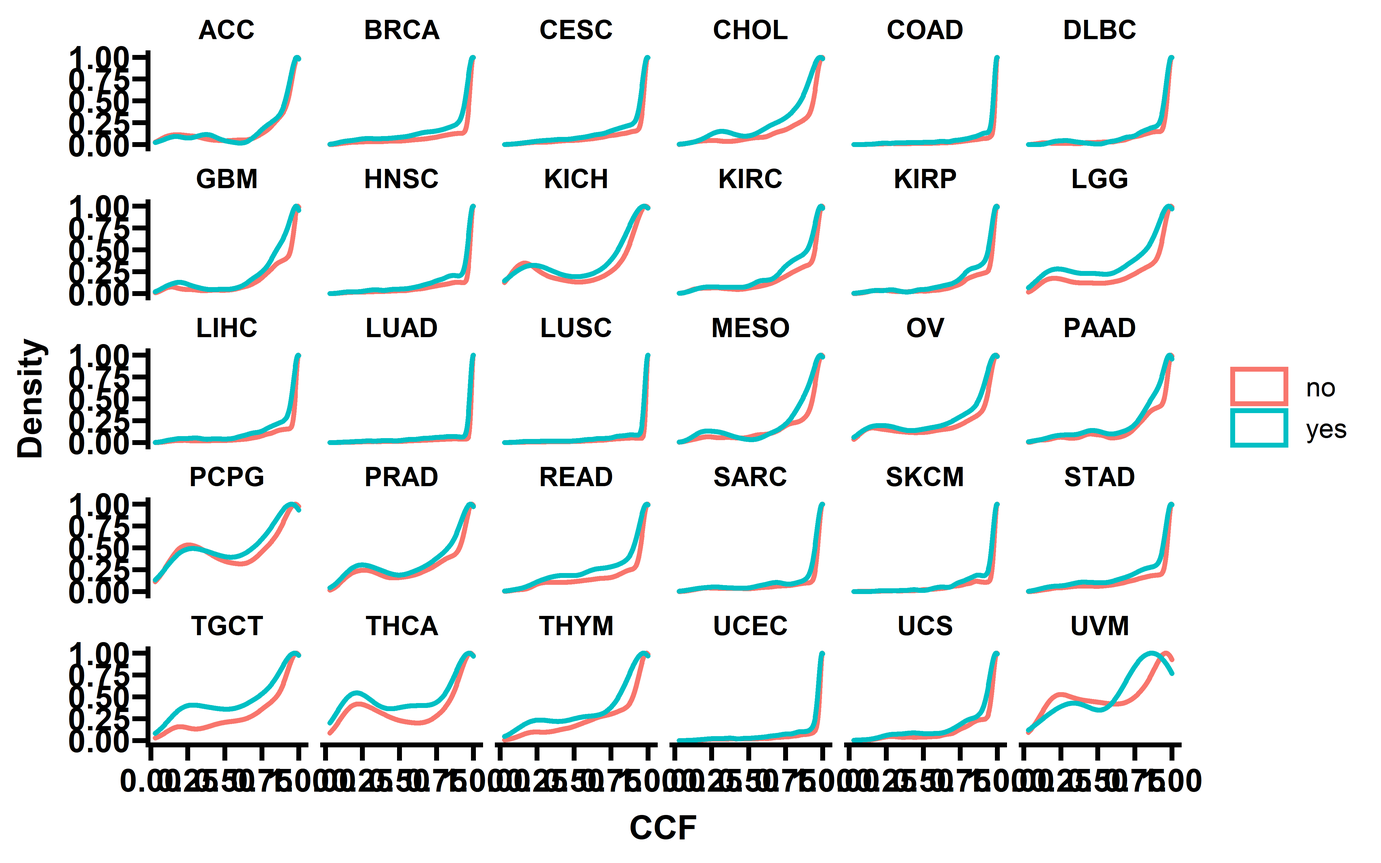
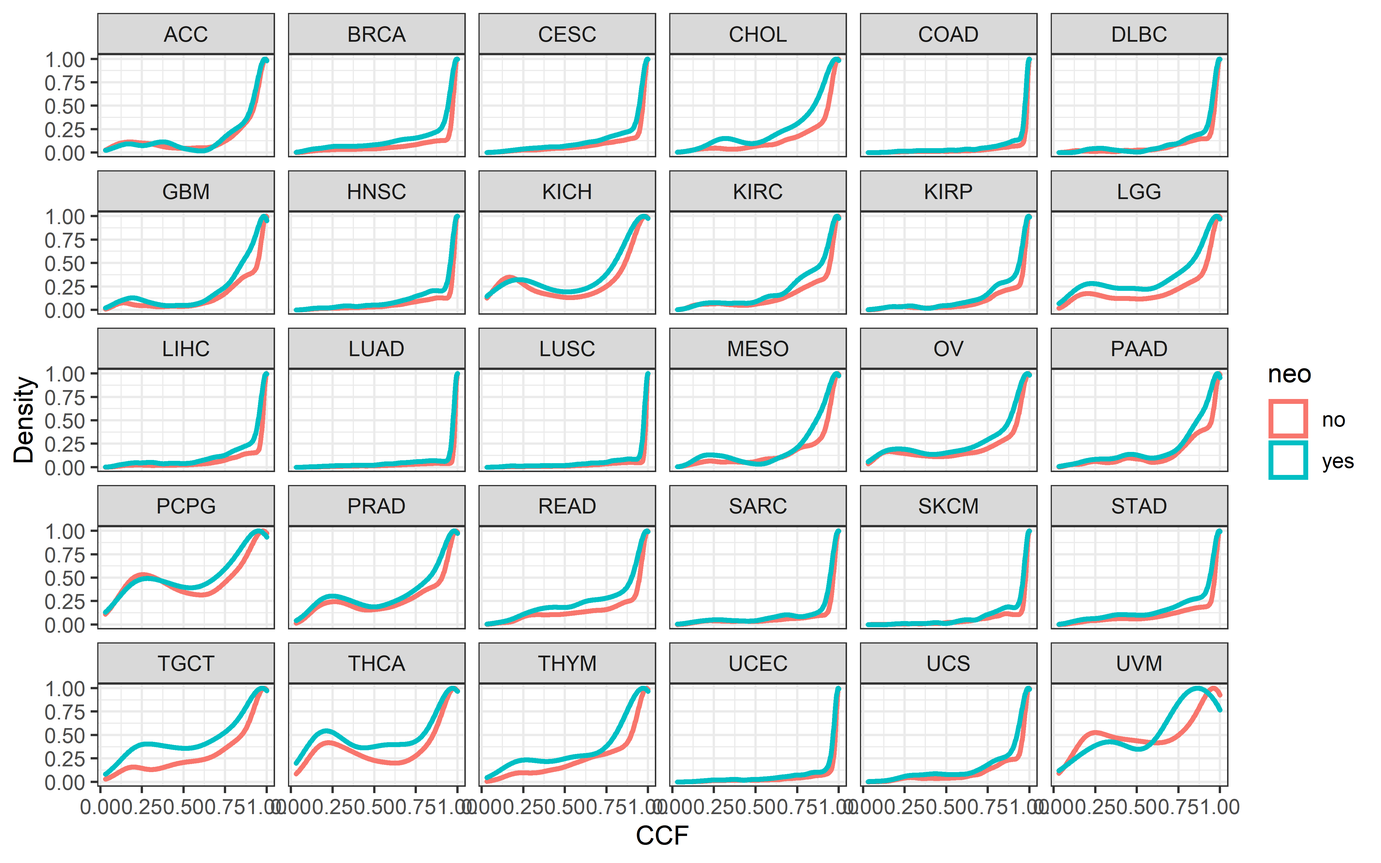
update website

diff --git a/docs/index.html b/docs/index.html
@@ -299,8 +299,8 @@
 <span id="cb3-2"><a href="#cb3-2" aria-hidden="true" tabindex="-1"></a>DT<span class="sc">::</span><span class="fu">datatable</span>(<span class="fu">head</span>(pancancer_mutation),</span>
 <span id="cb3-3"><a href="#cb3-3" aria-hidden="true" tabindex="-1"></a>  <span class="at">options =</span> <span class="fu">list</span>(<span class="at">scrollX =</span> <span class="cn">TRUE</span>, <span class="at">keys =</span> <span class="cn">TRUE</span>), <span class="at">rownames =</span> <span class="cn">FALSE</span></span>
 <span id="cb3-4"><a href="#cb3-4" aria-hidden="true" tabindex="-1"></a>)</span></code></pre></div>
-<div id="htmlwidget-fecff237e4eaf5f5f6d3" style="width:100%;height:auto;" class="datatables html-widget"></div>
-<script type="application/json" data-for="htmlwidget-fecff237e4eaf5f5f6d3">{"x":{"filter":"none","vertical":false,"data":[["TCGA-P6-A5OH-01A","TCGA-P6-A5OH-01A","TCGA-P6-A5OH-01A","TCGA-P6-A5OH-01A","TCGA-P6-A5OH-01A","TCGA-P6-A5OH-01A"],["WASF2","MACF1","NFIA","CADM3","DUSP27","RGSL1"],["chr1","chr1","chr1","chr1","chr1","chr1"],[27410171,39455094,61088434,159200836,167126702,182556049],[27410171,39455094,61088434,159200836,167126702,182556049],["G","T","C","G","G","G"],["A","A","T","A","C","C"],["p.A287V","p.H6923Q","p.L105F","p.D371N","p.G524A","p.E1075Q"],["missense_variant","missense_variant","missense_variant","missense_variant","missense_variant","missense_variant"],["PASS","PASS","PASS","PASS","PASS","PASS"],[0.25531914893617,0.0720720720720721,0.152671755725191,0.299479166666667,0.0555555555555556,0.2734375]],"container":"<table class=\"display\">\n  <thead>\n    <tr>\n      <th>Sample_ID<\/th>\n      <th>gene<\/th>\n      <th>chrom<\/th>\n      <th>start<\/th>\n      <th>end<\/th>\n      <th>ref<\/th>\n      <th>alt<\/th>\n      <th>Amino_Acid_Change<\/th>\n      <th>effect<\/th>\n      <th>filter<\/th>\n      <th>dna_vaf<\/th>\n    <\/tr>\n  <\/thead>\n<\/table>","options":{"scrollX":true,"keys":true,"columnDefs":[{"className":"dt-right","targets":[3,4,10]}],"order":[],"autoWidth":false,"orderClasses":false}},"evals":[],"jsHooks":[]}</script>
+<div id="htmlwidget-ea3678514e6542761ac6" style="width:100%;height:auto;" class="datatables html-widget"></div>
+<script type="application/json" data-for="htmlwidget-ea3678514e6542761ac6">{"x":{"filter":"none","vertical":false,"data":[["TCGA-P6-A5OH-01A","TCGA-P6-A5OH-01A","TCGA-P6-A5OH-01A","TCGA-P6-A5OH-01A","TCGA-P6-A5OH-01A","TCGA-P6-A5OH-01A"],["WASF2","MACF1","NFIA","CADM3","DUSP27","RGSL1"],["chr1","chr1","chr1","chr1","chr1","chr1"],[27410171,39455094,61088434,159200836,167126702,182556049],[27410171,39455094,61088434,159200836,167126702,182556049],["G","T","C","G","G","G"],["A","A","T","A","C","C"],["p.A287V","p.H6923Q","p.L105F","p.D371N","p.G524A","p.E1075Q"],["missense_variant","missense_variant","missense_variant","missense_variant","missense_variant","missense_variant"],["PASS","PASS","PASS","PASS","PASS","PASS"],[0.25531914893617,0.0720720720720721,0.152671755725191,0.299479166666667,0.0555555555555556,0.2734375]],"container":"<table class=\"display\">\n  <thead>\n    <tr>\n      <th>Sample_ID<\/th>\n      <th>gene<\/th>\n      <th>chrom<\/th>\n      <th>start<\/th>\n      <th>end<\/th>\n      <th>ref<\/th>\n      <th>alt<\/th>\n      <th>Amino_Acid_Change<\/th>\n      <th>effect<\/th>\n      <th>filter<\/th>\n      <th>dna_vaf<\/th>\n    <\/tr>\n  <\/thead>\n<\/table>","options":{"scrollX":true,"keys":true,"columnDefs":[{"className":"dt-right","targets":[3,4,10]}],"order":[],"autoWidth":false,"orderClasses":false}},"evals":[],"jsHooks":[]}</script>
 <p>To predict neoantigen, mutation files were first transformed into single sample VCF format by maf2vcf tools (This Code can be found in <code>code/shell/TCGA_neoantigen</code> folder).</p>
 <p>ABSOLUTE-annotated MAF file which contains cancer cell fraction (CCF) information of mutations was downloaded from GDC PanCanAtlas publications (<a href="https://gdc.cancer.gov/node/905/">TCGA_consolidated.abs_mafs_truncated.fixed.txt.gz</a>), and then we used liftover function from R package “rtracklayer” to convert the this hg37 genome coordinates file to hg38 coordinates:</p>
 <div class="sourceCode" id="cb4"><pre class="sourceCode r"><code class="sourceCode r"><span id="cb4-1"><a href="#cb4-1" aria-hidden="true" tabindex="-1"></a>absolute_maf <span class="ot">&lt;-</span> data.table<span class="sc">::</span><span class="fu">fread</span>(<span class="st">&quot;~/useful_data/TCGA_consolidated.abs_mafs_truncated.fixed.txt&quot;</span>)</span>
@@ -394,8 +394,8 @@
 <span id="cb9-2"><a href="#cb9-2" aria-hidden="true" tabindex="-1"></a>DT<span class="sc">::</span><span class="fu">datatable</span>(<span class="fu">head</span>(pancancer_immune),</span>
 <span id="cb9-3"><a href="#cb9-3" aria-hidden="true" tabindex="-1"></a>  <span class="at">options =</span> <span class="fu">list</span>(<span class="at">scrollX =</span> <span class="cn">TRUE</span>, <span class="at">keys =</span> <span class="cn">TRUE</span>), <span class="at">rownames =</span> <span class="cn">FALSE</span></span>
 <span id="cb9-4"><a href="#cb9-4" aria-hidden="true" tabindex="-1"></a>)</span></code></pre></div>
-<div id="htmlwidget-8572b52cb435a67b3689" style="width:100%;height:auto;" class="datatables html-widget"></div>
-<script type="application/json" data-for="htmlwidget-8572b52cb435a67b3689">{"x":{"filter":"none","vertical":false,"data":[["TCGA-OR-A5J1-01A","TCGA-OR-A5J2-01A","TCGA-OR-A5J3-01A","TCGA-OR-A5J5-01A","TCGA-OR-A5J6-01A","TCGA-OR-A5J7-01A"],[0,0,0.089,0.014,0,0.042],[0.115,0.114,0.087,0.218,0,0.069],[0.436,0.427,0.192,0.406,0.537,0.218],[0.035,0.08,0,0.003,0.105,0.02],[0.04,0.104,0.033,0.079,0.123,0.174],[0.048,0.025,0,0,0.11,0.013],[0.065,0.245,0,0,0.156,0.003],[0.158,0.152,0.069,0.004,0.148,0.025],[0.334,0.219,0,0.082,0.325,0],[0.057,0.044,0.253,0.114,0.203,0.112],[0.075,0.115,0,0.055,0.03,0.043],[0,0.087,0.061,0,0,0.041],[0.027,0.012,0,0,0.031,0],[0,0.143,0.07,0.105,0,0.043],[0.278,0.163,0.045,0.173,0.17,0.051],[0.15,0.207,0.149,0.088,0.224,0.13],[0.026,0.068,0.067,0.114,0.038,0.14],[0.104,0.095,0.076,0.148,0.172,0.086],[0.182,0.102,0.085,0.085,0.275,0.112],[0.162,0.003,0.146,0.254,0.377,0.179],[0.115,0.106,0.162,0.122,0.115,0.157],[0.089,0.07,0.13,0.151,0.09,0.06],[0.102,0.084,0.123,0.087,0.058,0.094],[0.201,0.211,0.046,0.156,0.206,0.048],[0.606,0.508,0.496,0.613,0.851,0.549]],"container":"<table class=\"display\">\n  <thead>\n    <tr>\n      <th>sample<\/th>\n      <th>CD4_naive<\/th>\n      <th>CD8_naive<\/th>\n      <th>Tc<\/th>\n      <th>Tex<\/th>\n      <th>Tr1<\/th>\n      <th>nTreg<\/th>\n      <th>iTreg<\/th>\n      <th>Th1<\/th>\n      <th>Th2<\/th>\n      <th>Th17<\/th>\n      <th>Tfh<\/th>\n      <th>Tcm<\/th>\n      <th>Tem<\/th>\n      <th>NKT<\/th>\n      <th>MAIT<\/th>\n      <th>DC<\/th>\n      <th>B_cell<\/th>\n      <th>Monocyte<\/th>\n      <th>Macrophage<\/th>\n      <th>NK<\/th>\n      <th>Neutrophil<\/th>\n      <th>Tgd<\/th>\n      <th>CD4_T<\/th>\n      <th>CD8_T<\/th>\n      <th>InfiltrationScore<\/th>\n    <\/tr>\n  <\/thead>\n<\/table>","options":{"scrollX":true,"keys":true,"columnDefs":[{"className":"dt-right","targets":[1,2,3,4,5,6,7,8,9,10,11,12,13,14,15,16,17,18,19,20,21,22,23,24,25]}],"order":[],"autoWidth":false,"orderClasses":false}},"evals":[],"jsHooks":[]}</script>
+<div id="htmlwidget-138fb5acbf17a69eca08" style="width:100%;height:auto;" class="datatables html-widget"></div>
+<script type="application/json" data-for="htmlwidget-138fb5acbf17a69eca08">{"x":{"filter":"none","vertical":false,"data":[["TCGA-OR-A5J1-01A","TCGA-OR-A5J2-01A","TCGA-OR-A5J3-01A","TCGA-OR-A5J5-01A","TCGA-OR-A5J6-01A","TCGA-OR-A5J7-01A"],[0,0,0.089,0.014,0,0.042],[0.115,0.114,0.087,0.218,0,0.069],[0.436,0.427,0.192,0.406,0.537,0.218],[0.035,0.08,0,0.003,0.105,0.02],[0.04,0.104,0.033,0.079,0.123,0.174],[0.048,0.025,0,0,0.11,0.013],[0.065,0.245,0,0,0.156,0.003],[0.158,0.152,0.069,0.004,0.148,0.025],[0.334,0.219,0,0.082,0.325,0],[0.057,0.044,0.253,0.114,0.203,0.112],[0.075,0.115,0,0.055,0.03,0.043],[0,0.087,0.061,0,0,0.041],[0.027,0.012,0,0,0.031,0],[0,0.143,0.07,0.105,0,0.043],[0.278,0.163,0.045,0.173,0.17,0.051],[0.15,0.207,0.149,0.088,0.224,0.13],[0.026,0.068,0.067,0.114,0.038,0.14],[0.104,0.095,0.076,0.148,0.172,0.086],[0.182,0.102,0.085,0.085,0.275,0.112],[0.162,0.003,0.146,0.254,0.377,0.179],[0.115,0.106,0.162,0.122,0.115,0.157],[0.089,0.07,0.13,0.151,0.09,0.06],[0.102,0.084,0.123,0.087,0.058,0.094],[0.201,0.211,0.046,0.156,0.206,0.048],[0.606,0.508,0.496,0.613,0.851,0.549]],"container":"<table class=\"display\">\n  <thead>\n    <tr>\n      <th>sample<\/th>\n      <th>CD4_naive<\/th>\n      <th>CD8_naive<\/th>\n      <th>Tc<\/th>\n      <th>Tex<\/th>\n      <th>Tr1<\/th>\n      <th>nTreg<\/th>\n      <th>iTreg<\/th>\n      <th>Th1<\/th>\n      <th>Th2<\/th>\n      <th>Th17<\/th>\n      <th>Tfh<\/th>\n      <th>Tcm<\/th>\n      <th>Tem<\/th>\n      <th>NKT<\/th>\n      <th>MAIT<\/th>\n      <th>DC<\/th>\n      <th>B_cell<\/th>\n      <th>Monocyte<\/th>\n      <th>Macrophage<\/th>\n      <th>NK<\/th>\n      <th>Neutrophil<\/th>\n      <th>Tgd<\/th>\n      <th>CD4_T<\/th>\n      <th>CD8_T<\/th>\n      <th>InfiltrationScore<\/th>\n    <\/tr>\n  <\/thead>\n<\/table>","options":{"scrollX":true,"keys":true,"columnDefs":[{"className":"dt-right","targets":[1,2,3,4,5,6,7,8,9,10,11,12,13,14,15,16,17,18,19,20,21,22,23,24,25]}],"order":[],"autoWidth":false,"orderClasses":false}},"evals":[],"jsHooks":[]}</script>
 <p>Other Immune cell infiltration data including CIBERSORT (abs mode), Quantiseq were downloaded from the <a href="http://timer.comp-genomics.org/">TIMER2.0</a> study.</p>
 </div>
 </div>
@@ -2009,7 +2009,7 @@
 <span id="cb54-12"><a href="#cb54-12" aria-hidden="true" tabindex="-1"></a><span class="co">#&gt;   FLG</span></span>
 <span id="cb54-13"><a href="#cb54-13" aria-hidden="true" tabindex="-1"></a><span class="co">#&gt; -Processing clinical data</span></span>
 <span id="cb54-14"><a href="#cb54-14" aria-hidden="true" tabindex="-1"></a><span class="co">#&gt; --Missing clinical data</span></span>
-<span id="cb54-15"><a href="#cb54-15" aria-hidden="true" tabindex="-1"></a><span class="co">#&gt; -Finished in 3.880s elapsed (3.750s cpu)</span></span>
+<span id="cb54-15"><a href="#cb54-15" aria-hidden="true" tabindex="-1"></a><span class="co">#&gt; -Finished in 3.750s elapsed (3.660s cpu)</span></span>
 <span id="cb54-16"><a href="#cb54-16" aria-hidden="true" tabindex="-1"></a><span class="fu">oncoplot</span>(<span class="at">maf =</span> willy_maf,<span class="at">top=</span><span class="dv">10</span>,<span class="at">draw_titv =</span> <span class="cn">TRUE</span>)</span></code></pre></div>
 <p><img src="report_main_files/figure-html/unnamed-chunk-32-2.png" width="2400" /></p>
 <div class="sourceCode" id="cb55"><pre class="sourceCode r"><code class="sourceCode r"><span id="cb55-1"><a href="#cb55-1" aria-hidden="true" tabindex="-1"></a></span>
@@ -2026,7 +2026,7 @@
 <span id="cb55-12"><a href="#cb55-12" aria-hidden="true" tabindex="-1"></a><span class="co">#&gt;   OBSCN</span></span>
 <span id="cb55-13"><a href="#cb55-13" aria-hidden="true" tabindex="-1"></a><span class="co">#&gt; -Processing clinical data</span></span>
 <span id="cb55-14"><a href="#cb55-14" aria-hidden="true" tabindex="-1"></a><span class="co">#&gt; --Missing clinical data</span></span>
-<span id="cb55-15"><a href="#cb55-15" aria-hidden="true" tabindex="-1"></a><span class="co">#&gt; -Finished in 1.380s elapsed (1.220s cpu)</span></span>
+<span id="cb55-15"><a href="#cb55-15" aria-hidden="true" tabindex="-1"></a><span class="co">#&gt; -Finished in 1.360s elapsed (1.260s cpu)</span></span>
 <span id="cb55-16"><a href="#cb55-16" aria-hidden="true" tabindex="-1"></a><span class="fu">oncoplot</span>(<span class="at">maf =</span> nadeem_maf,<span class="at">top=</span><span class="dv">10</span>,<span class="at">draw_titv =</span> <span class="cn">TRUE</span>)</span></code></pre></div>
 <p><img src="report_main_files/figure-html/unnamed-chunk-32-3.png" width="2400" /></p>
 </div>
@@ -2223,11 +2223,10 @@
 <span id="cb63-11"><a href="#cb63-11" aria-hidden="true" tabindex="-1"></a></span>
 <span id="cb63-12"><a href="#cb63-12" aria-hidden="true" tabindex="-1"></a><span class="fu">ggplot</span>(<span class="at">data =</span> neo_missense,<span class="fu">aes</span>(<span class="at">x=</span>ccf,..scaled..,<span class="at">color=</span>neo))<span class="sc">+</span></span>
 <span id="cb63-13"><a href="#cb63-13" aria-hidden="true" tabindex="-1"></a>  <span class="fu">geom_density</span>(<span class="at">size=</span><span class="dv">1</span>)<span class="sc">+</span></span>
-<span id="cb63-14"><a href="#cb63-14" aria-hidden="true" tabindex="-1"></a>  <span class="fu">theme_prism</span>()<span class="sc">+</span></span>
+<span id="cb63-14"><a href="#cb63-14" aria-hidden="true" tabindex="-1"></a>  <span class="fu">theme_bw</span>()<span class="sc">+</span></span>
 <span id="cb63-15"><a href="#cb63-15" aria-hidden="true" tabindex="-1"></a>  <span class="fu">labs</span>(<span class="at">y=</span><span class="st">&quot;Density&quot;</span>,<span class="at">x=</span><span class="st">&quot;CCF&quot;</span>)<span class="sc">+</span></span>
 <span id="cb63-16"><a href="#cb63-16" aria-hidden="true" tabindex="-1"></a>  <span class="fu">facet_wrap</span>(. <span class="sc">~</span> cancer)</span></code></pre></div>
-<div class="sourceCode" id="cb64"><pre class="sourceCode r"><code class="sourceCode r"><span id="cb64-1"><a href="#cb64-1" aria-hidden="true" tabindex="-1"></a>knitr<span class="sc">::</span><span class="fu">include_graphics</span>(<span class="st">&quot;s3.png&quot;</span>)</span></code></pre></div>
-<p><img src="s3.png" width="508" /></p>
+<p><img src="report_main_files/figure-html/unnamed-chunk-36-1.png" width="2400" /></p>
 <p>It is apparent that in many cancer types there are clear shift of CCF curves of neoantigenic mutations compared with non-neoantigenic mutations, and this difference highlight the immunoediting elimination signal quantified in this study.</p>
 </div>
 </div>

diff --git a/report/report_main.html b/report/report_main.html
@@ -299,8 +299,8 @@
 <span id="cb3-2"><a href="#cb3-2" aria-hidden="true" tabindex="-1"></a>DT<span class="sc">::</span><span class="fu">datatable</span>(<span class="fu">head</span>(pancancer_mutation),</span>
 <span id="cb3-3"><a href="#cb3-3" aria-hidden="true" tabindex="-1"></a>  <span class="at">options =</span> <span class="fu">list</span>(<span class="at">scrollX =</span> <span class="cn">TRUE</span>, <span class="at">keys =</span> <span class="cn">TRUE</span>), <span class="at">rownames =</span> <span class="cn">FALSE</span></span>
 <span id="cb3-4"><a href="#cb3-4" aria-hidden="true" tabindex="-1"></a>)</span></code></pre></div>
-<div id="htmlwidget-fecff237e4eaf5f5f6d3" style="width:100%;height:auto;" class="datatables html-widget"></div>
-<script type="application/json" data-for="htmlwidget-fecff237e4eaf5f5f6d3">{"x":{"filter":"none","vertical":false,"data":[["TCGA-P6-A5OH-01A","TCGA-P6-A5OH-01A","TCGA-P6-A5OH-01A","TCGA-P6-A5OH-01A","TCGA-P6-A5OH-01A","TCGA-P6-A5OH-01A"],["WASF2","MACF1","NFIA","CADM3","DUSP27","RGSL1"],["chr1","chr1","chr1","chr1","chr1","chr1"],[27410171,39455094,61088434,159200836,167126702,182556049],[27410171,39455094,61088434,159200836,167126702,182556049],["G","T","C","G","G","G"],["A","A","T","A","C","C"],["p.A287V","p.H6923Q","p.L105F","p.D371N","p.G524A","p.E1075Q"],["missense_variant","missense_variant","missense_variant","missense_variant","missense_variant","missense_variant"],["PASS","PASS","PASS","PASS","PASS","PASS"],[0.25531914893617,0.0720720720720721,0.152671755725191,0.299479166666667,0.0555555555555556,0.2734375]],"container":"<table class=\"display\">\n  <thead>\n    <tr>\n      <th>Sample_ID<\/th>\n      <th>gene<\/th>\n      <th>chrom<\/th>\n      <th>start<\/th>\n      <th>end<\/th>\n      <th>ref<\/th>\n      <th>alt<\/th>\n      <th>Amino_Acid_Change<\/th>\n      <th>effect<\/th>\n      <th>filter<\/th>\n      <th>dna_vaf<\/th>\n    <\/tr>\n  <\/thead>\n<\/table>","options":{"scrollX":true,"keys":true,"columnDefs":[{"className":"dt-right","targets":[3,4,10]}],"order":[],"autoWidth":false,"orderClasses":false}},"evals":[],"jsHooks":[]}</script>
+<div id="htmlwidget-ea3678514e6542761ac6" style="width:100%;height:auto;" class="datatables html-widget"></div>
+<script type="application/json" data-for="htmlwidget-ea3678514e6542761ac6">{"x":{"filter":"none","vertical":false,"data":[["TCGA-P6-A5OH-01A","TCGA-P6-A5OH-01A","TCGA-P6-A5OH-01A","TCGA-P6-A5OH-01A","TCGA-P6-A5OH-01A","TCGA-P6-A5OH-01A"],["WASF2","MACF1","NFIA","CADM3","DUSP27","RGSL1"],["chr1","chr1","chr1","chr1","chr1","chr1"],[27410171,39455094,61088434,159200836,167126702,182556049],[27410171,39455094,61088434,159200836,167126702,182556049],["G","T","C","G","G","G"],["A","A","T","A","C","C"],["p.A287V","p.H6923Q","p.L105F","p.D371N","p.G524A","p.E1075Q"],["missense_variant","missense_variant","missense_variant","missense_variant","missense_variant","missense_variant"],["PASS","PASS","PASS","PASS","PASS","PASS"],[0.25531914893617,0.0720720720720721,0.152671755725191,0.299479166666667,0.0555555555555556,0.2734375]],"container":"<table class=\"display\">\n  <thead>\n    <tr>\n      <th>Sample_ID<\/th>\n      <th>gene<\/th>\n      <th>chrom<\/th>\n      <th>start<\/th>\n      <th>end<\/th>\n      <th>ref<\/th>\n      <th>alt<\/th>\n      <th>Amino_Acid_Change<\/th>\n      <th>effect<\/th>\n      <th>filter<\/th>\n      <th>dna_vaf<\/th>\n    <\/tr>\n  <\/thead>\n<\/table>","options":{"scrollX":true,"keys":true,"columnDefs":[{"className":"dt-right","targets":[3,4,10]}],"order":[],"autoWidth":false,"orderClasses":false}},"evals":[],"jsHooks":[]}</script>
 <p>To predict neoantigen, mutation files were first transformed into single sample VCF format by maf2vcf tools (This Code can be found in <code>code/shell/TCGA_neoantigen</code> folder).</p>
 <p>ABSOLUTE-annotated MAF file which contains cancer cell fraction (CCF) information of mutations was downloaded from GDC PanCanAtlas publications (<a href="https://gdc.cancer.gov/node/905/">TCGA_consolidated.abs_mafs_truncated.fixed.txt.gz</a>), and then we used liftover function from R package “rtracklayer” to convert the this hg37 genome coordinates file to hg38 coordinates:</p>
 <div class="sourceCode" id="cb4"><pre class="sourceCode r"><code class="sourceCode r"><span id="cb4-1"><a href="#cb4-1" aria-hidden="true" tabindex="-1"></a>absolute_maf <span class="ot">&lt;-</span> data.table<span class="sc">::</span><span class="fu">fread</span>(<span class="st">&quot;~/useful_data/TCGA_consolidated.abs_mafs_truncated.fixed.txt&quot;</span>)</span>
@@ -394,8 +394,8 @@
 <span id="cb9-2"><a href="#cb9-2" aria-hidden="true" tabindex="-1"></a>DT<span class="sc">::</span><span class="fu">datatable</span>(<span class="fu">head</span>(pancancer_immune),</span>
 <span id="cb9-3"><a href="#cb9-3" aria-hidden="true" tabindex="-1"></a>  <span class="at">options =</span> <span class="fu">list</span>(<span class="at">scrollX =</span> <span class="cn">TRUE</span>, <span class="at">keys =</span> <span class="cn">TRUE</span>), <span class="at">rownames =</span> <span class="cn">FALSE</span></span>
 <span id="cb9-4"><a href="#cb9-4" aria-hidden="true" tabindex="-1"></a>)</span></code></pre></div>
-<div id="htmlwidget-8572b52cb435a67b3689" style="width:100%;height:auto;" class="datatables html-widget"></div>
-<script type="application/json" data-for="htmlwidget-8572b52cb435a67b3689">{"x":{"filter":"none","vertical":false,"data":[["TCGA-OR-A5J1-01A","TCGA-OR-A5J2-01A","TCGA-OR-A5J3-01A","TCGA-OR-A5J5-01A","TCGA-OR-A5J6-01A","TCGA-OR-A5J7-01A"],[0,0,0.089,0.014,0,0.042],[0.115,0.114,0.087,0.218,0,0.069],[0.436,0.427,0.192,0.406,0.537,0.218],[0.035,0.08,0,0.003,0.105,0.02],[0.04,0.104,0.033,0.079,0.123,0.174],[0.048,0.025,0,0,0.11,0.013],[0.065,0.245,0,0,0.156,0.003],[0.158,0.152,0.069,0.004,0.148,0.025],[0.334,0.219,0,0.082,0.325,0],[0.057,0.044,0.253,0.114,0.203,0.112],[0.075,0.115,0,0.055,0.03,0.043],[0,0.087,0.061,0,0,0.041],[0.027,0.012,0,0,0.031,0],[0,0.143,0.07,0.105,0,0.043],[0.278,0.163,0.045,0.173,0.17,0.051],[0.15,0.207,0.149,0.088,0.224,0.13],[0.026,0.068,0.067,0.114,0.038,0.14],[0.104,0.095,0.076,0.148,0.172,0.086],[0.182,0.102,0.085,0.085,0.275,0.112],[0.162,0.003,0.146,0.254,0.377,0.179],[0.115,0.106,0.162,0.122,0.115,0.157],[0.089,0.07,0.13,0.151,0.09,0.06],[0.102,0.084,0.123,0.087,0.058,0.094],[0.201,0.211,0.046,0.156,0.206,0.048],[0.606,0.508,0.496,0.613,0.851,0.549]],"container":"<table class=\"display\">\n  <thead>\n    <tr>\n      <th>sample<\/th>\n      <th>CD4_naive<\/th>\n      <th>CD8_naive<\/th>\n      <th>Tc<\/th>\n      <th>Tex<\/th>\n      <th>Tr1<\/th>\n      <th>nTreg<\/th>\n      <th>iTreg<\/th>\n      <th>Th1<\/th>\n      <th>Th2<\/th>\n      <th>Th17<\/th>\n      <th>Tfh<\/th>\n      <th>Tcm<\/th>\n      <th>Tem<\/th>\n      <th>NKT<\/th>\n      <th>MAIT<\/th>\n      <th>DC<\/th>\n      <th>B_cell<\/th>\n      <th>Monocyte<\/th>\n      <th>Macrophage<\/th>\n      <th>NK<\/th>\n      <th>Neutrophil<\/th>\n      <th>Tgd<\/th>\n      <th>CD4_T<\/th>\n      <th>CD8_T<\/th>\n      <th>InfiltrationScore<\/th>\n    <\/tr>\n  <\/thead>\n<\/table>","options":{"scrollX":true,"keys":true,"columnDefs":[{"className":"dt-right","targets":[1,2,3,4,5,6,7,8,9,10,11,12,13,14,15,16,17,18,19,20,21,22,23,24,25]}],"order":[],"autoWidth":false,"orderClasses":false}},"evals":[],"jsHooks":[]}</script>
+<div id="htmlwidget-138fb5acbf17a69eca08" style="width:100%;height:auto;" class="datatables html-widget"></div>
+<script type="application/json" data-for="htmlwidget-138fb5acbf17a69eca08">{"x":{"filter":"none","vertical":false,"data":[["TCGA-OR-A5J1-01A","TCGA-OR-A5J2-01A","TCGA-OR-A5J3-01A","TCGA-OR-A5J5-01A","TCGA-OR-A5J6-01A","TCGA-OR-A5J7-01A"],[0,0,0.089,0.014,0,0.042],[0.115,0.114,0.087,0.218,0,0.069],[0.436,0.427,0.192,0.406,0.537,0.218],[0.035,0.08,0,0.003,0.105,0.02],[0.04,0.104,0.033,0.079,0.123,0.174],[0.048,0.025,0,0,0.11,0.013],[0.065,0.245,0,0,0.156,0.003],[0.158,0.152,0.069,0.004,0.148,0.025],[0.334,0.219,0,0.082,0.325,0],[0.057,0.044,0.253,0.114,0.203,0.112],[0.075,0.115,0,0.055,0.03,0.043],[0,0.087,0.061,0,0,0.041],[0.027,0.012,0,0,0.031,0],[0,0.143,0.07,0.105,0,0.043],[0.278,0.163,0.045,0.173,0.17,0.051],[0.15,0.207,0.149,0.088,0.224,0.13],[0.026,0.068,0.067,0.114,0.038,0.14],[0.104,0.095,0.076,0.148,0.172,0.086],[0.182,0.102,0.085,0.085,0.275,0.112],[0.162,0.003,0.146,0.254,0.377,0.179],[0.115,0.106,0.162,0.122,0.115,0.157],[0.089,0.07,0.13,0.151,0.09,0.06],[0.102,0.084,0.123,0.087,0.058,0.094],[0.201,0.211,0.046,0.156,0.206,0.048],[0.606,0.508,0.496,0.613,0.851,0.549]],"container":"<table class=\"display\">\n  <thead>\n    <tr>\n      <th>sample<\/th>\n      <th>CD4_naive<\/th>\n      <th>CD8_naive<\/th>\n      <th>Tc<\/th>\n      <th>Tex<\/th>\n      <th>Tr1<\/th>\n      <th>nTreg<\/th>\n      <th>iTreg<\/th>\n      <th>Th1<\/th>\n      <th>Th2<\/th>\n      <th>Th17<\/th>\n      <th>Tfh<\/th>\n      <th>Tcm<\/th>\n      <th>Tem<\/th>\n      <th>NKT<\/th>\n      <th>MAIT<\/th>\n      <th>DC<\/th>\n      <th>B_cell<\/th>\n      <th>Monocyte<\/th>\n      <th>Macrophage<\/th>\n      <th>NK<\/th>\n      <th>Neutrophil<\/th>\n      <th>Tgd<\/th>\n      <th>CD4_T<\/th>\n      <th>CD8_T<\/th>\n      <th>InfiltrationScore<\/th>\n    <\/tr>\n  <\/thead>\n<\/table>","options":{"scrollX":true,"keys":true,"columnDefs":[{"className":"dt-right","targets":[1,2,3,4,5,6,7,8,9,10,11,12,13,14,15,16,17,18,19,20,21,22,23,24,25]}],"order":[],"autoWidth":false,"orderClasses":false}},"evals":[],"jsHooks":[]}</script>
 <p>Other Immune cell infiltration data including CIBERSORT (abs mode), Quantiseq were downloaded from the <a href="http://timer.comp-genomics.org/">TIMER2.0</a> study.</p>
 </div>
 </div>
@@ -2009,7 +2009,7 @@
 <span id="cb54-12"><a href="#cb54-12" aria-hidden="true" tabindex="-1"></a><span class="co">#&gt;   FLG</span></span>
 <span id="cb54-13"><a href="#cb54-13" aria-hidden="true" tabindex="-1"></a><span class="co">#&gt; -Processing clinical data</span></span>
 <span id="cb54-14"><a href="#cb54-14" aria-hidden="true" tabindex="-1"></a><span class="co">#&gt; --Missing clinical data</span></span>
-<span id="cb54-15"><a href="#cb54-15" aria-hidden="true" tabindex="-1"></a><span class="co">#&gt; -Finished in 3.880s elapsed (3.750s cpu)</span></span>
+<span id="cb54-15"><a href="#cb54-15" aria-hidden="true" tabindex="-1"></a><span class="co">#&gt; -Finished in 3.750s elapsed (3.660s cpu)</span></span>
 <span id="cb54-16"><a href="#cb54-16" aria-hidden="true" tabindex="-1"></a><span class="fu">oncoplot</span>(<span class="at">maf =</span> willy_maf,<span class="at">top=</span><span class="dv">10</span>,<span class="at">draw_titv =</span> <span class="cn">TRUE</span>)</span></code></pre></div>
 <p><img src="report_main_files/figure-html/unnamed-chunk-32-2.png" width="2400" /></p>
 <div class="sourceCode" id="cb55"><pre class="sourceCode r"><code class="sourceCode r"><span id="cb55-1"><a href="#cb55-1" aria-hidden="true" tabindex="-1"></a></span>
@@ -2026,7 +2026,7 @@
 <span id="cb55-12"><a href="#cb55-12" aria-hidden="true" tabindex="-1"></a><span class="co">#&gt;   OBSCN</span></span>
 <span id="cb55-13"><a href="#cb55-13" aria-hidden="true" tabindex="-1"></a><span class="co">#&gt; -Processing clinical data</span></span>
 <span id="cb55-14"><a href="#cb55-14" aria-hidden="true" tabindex="-1"></a><span class="co">#&gt; --Missing clinical data</span></span>
-<span id="cb55-15"><a href="#cb55-15" aria-hidden="true" tabindex="-1"></a><span class="co">#&gt; -Finished in 1.380s elapsed (1.220s cpu)</span></span>
+<span id="cb55-15"><a href="#cb55-15" aria-hidden="true" tabindex="-1"></a><span class="co">#&gt; -Finished in 1.360s elapsed (1.260s cpu)</span></span>
 <span id="cb55-16"><a href="#cb55-16" aria-hidden="true" tabindex="-1"></a><span class="fu">oncoplot</span>(<span class="at">maf =</span> nadeem_maf,<span class="at">top=</span><span class="dv">10</span>,<span class="at">draw_titv =</span> <span class="cn">TRUE</span>)</span></code></pre></div>
 <p><img src="report_main_files/figure-html/unnamed-chunk-32-3.png" width="2400" /></p>
 </div>
@@ -2223,11 +2223,10 @@
 <span id="cb63-11"><a href="#cb63-11" aria-hidden="true" tabindex="-1"></a></span>
 <span id="cb63-12"><a href="#cb63-12" aria-hidden="true" tabindex="-1"></a><span class="fu">ggplot</span>(<span class="at">data =</span> neo_missense,<span class="fu">aes</span>(<span class="at">x=</span>ccf,..scaled..,<span class="at">color=</span>neo))<span class="sc">+</span></span>
 <span id="cb63-13"><a href="#cb63-13" aria-hidden="true" tabindex="-1"></a>  <span class="fu">geom_density</span>(<span class="at">size=</span><span class="dv">1</span>)<span class="sc">+</span></span>
-<span id="cb63-14"><a href="#cb63-14" aria-hidden="true" tabindex="-1"></a>  <span class="fu">theme_prism</span>()<span class="sc">+</span></span>
+<span id="cb63-14"><a href="#cb63-14" aria-hidden="true" tabindex="-1"></a>  <span class="fu">theme_bw</span>()<span class="sc">+</span></span>
 <span id="cb63-15"><a href="#cb63-15" aria-hidden="true" tabindex="-1"></a>  <span class="fu">labs</span>(<span class="at">y=</span><span class="st">&quot;Density&quot;</span>,<span class="at">x=</span><span class="st">&quot;CCF&quot;</span>)<span class="sc">+</span></span>
 <span id="cb63-16"><a href="#cb63-16" aria-hidden="true" tabindex="-1"></a>  <span class="fu">facet_wrap</span>(. <span class="sc">~</span> cancer)</span></code></pre></div>
-<div class="sourceCode" id="cb64"><pre class="sourceCode r"><code class="sourceCode r"><span id="cb64-1"><a href="#cb64-1" aria-hidden="true" tabindex="-1"></a>knitr<span class="sc">::</span><span class="fu">include_graphics</span>(<span class="st">&quot;s3.png&quot;</span>)</span></code></pre></div>
-<p><img src="s3.png" width="508" /></p>
+<p><img src="report_main_files/figure-html/unnamed-chunk-36-1.png" width="2400" /></p>
 <p>It is apparent that in many cancer types there are clear shift of CCF curves of neoantigenic mutations compared with non-neoantigenic mutations, and this difference highlight the immunoediting elimination signal quantified in this study.</p>
 </div>
 </div>
